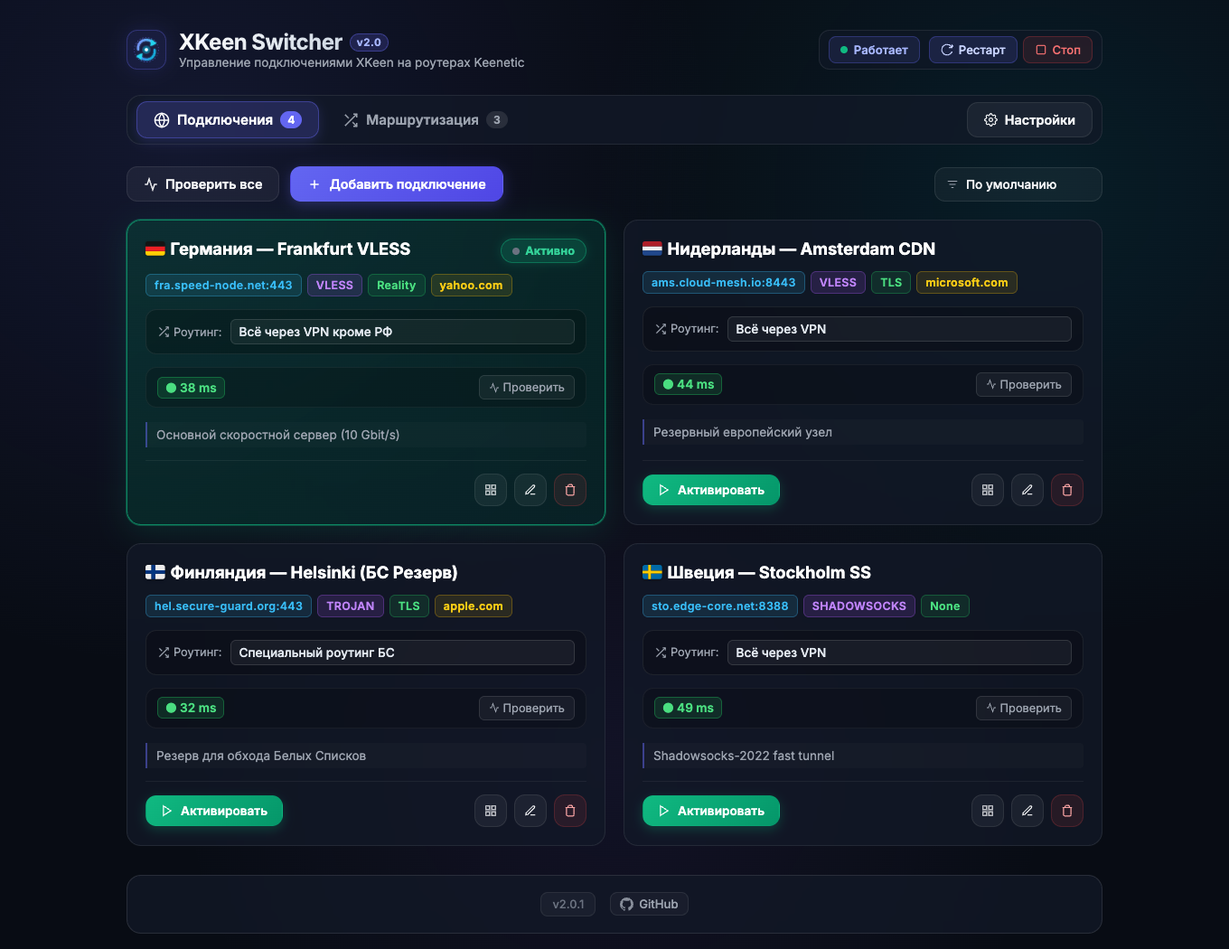
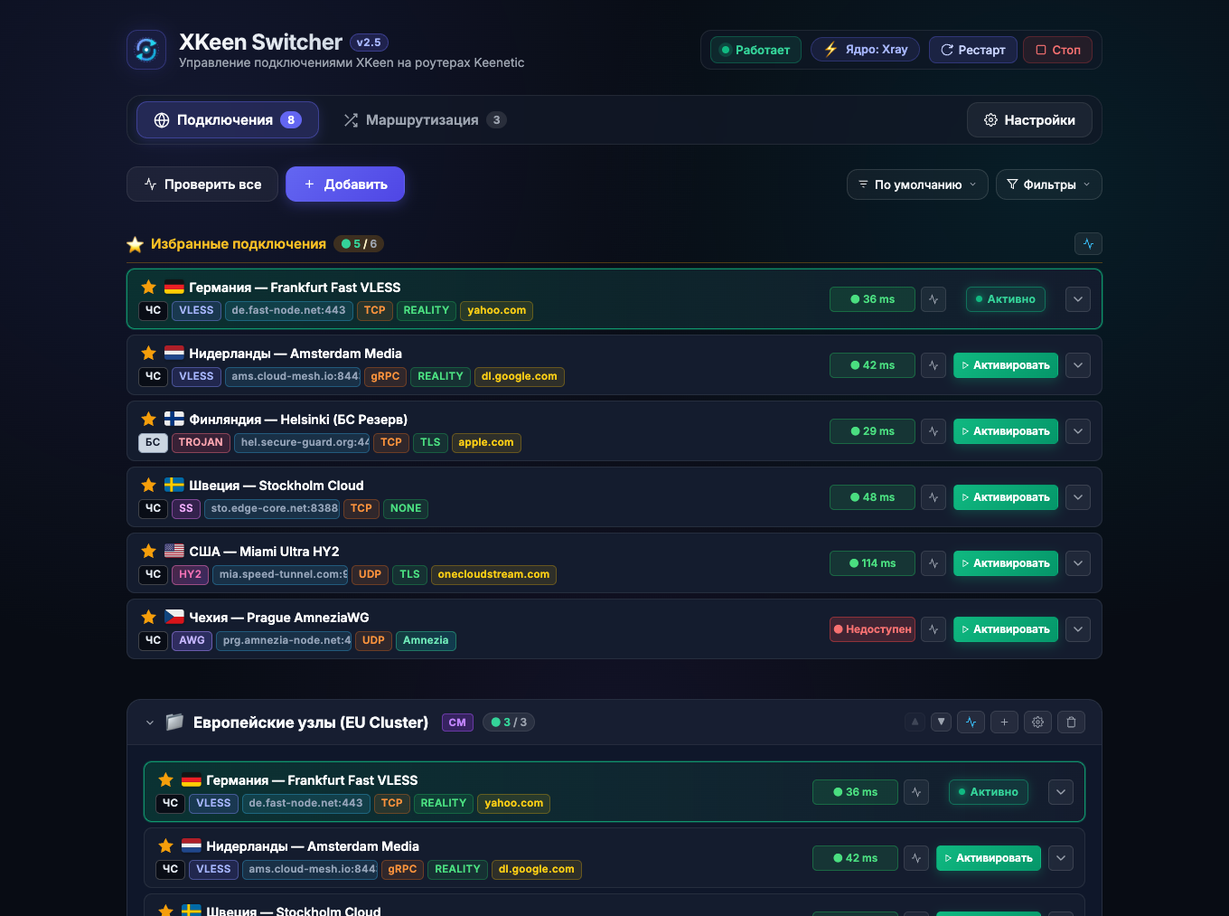
release: v2.5.0 - Multi-core (Xray & Mihomo), AWG, Hysteria 2, Subscriptions and Routing Builder

diff --git a/public/index.html b/public/index.html
@@ -3,7 +3,7 @@
 <head>
   <meta charset="UTF-8">
   <meta name="viewport" content="width=device-width, initial-scale=1.0">
-  <title>XKeen Switcher 2.0</title>
+  <title>XKeen Switcher 2.5</title>
   <link rel="icon" type="image/svg+xml" href="favicon.svg">
   <meta name="theme-color" content="#080c14">
   <link rel="preconnect" href="https://fonts.googleapis.com">
@@ -57,7 +57,7 @@
         <div>
           <div class="brand-title-row">
             <h1>XKeen Switcher</h1>
-            <span class="version-tag">v2.0</span>
+            <span class="version-tag">v2.5</span>
           </div>
           <p class="subtitle">Управление подключениями XKeen на роутерах Keenetic</p>
         </div>
@@ -235,7 +235,7 @@
     <footer class="bottom-bar glass-card footer-centered">
       <div class="footer-content">
         <div class="app-version-badge" id="app-version-badge" title="Версия приложения">
-          <span id="app-version-text">v2.0.2</span>
+          <span id="app-version-text">v2.5.0</span>
         </div>
         <div id="app-update-group" class="app-update-group hidden">
           <a id="app-update-badge" class="app-update-badge" href="https://github.com/sergey1900/XKeenSwitcher/releases" target="_blank" rel="noopener noreferrer" title="Нажмите, чтобы открыть страницу релиза на GitHub">

diff --git a/public/app.js b/public/app.js
@@ -167,6 +167,8 @@ async function loadData() {
     if (data.version) {
       const verEl = document.getElementById('app-version-text');
       if (verEl) verEl.textContent = `v${data.version}`;
+      const brandTag = document.querySelector('.brand-title-row .version-tag');
+      if (brandTag) brandTag.textContent = `v${data.version.split('.').slice(0, 2).join('.')}`;
     }
 
     // Check for updates on GitHub in the background

diff --git a/README.md b/README.md
@@ -1,29 +1,66 @@
 # 🚀 XKeenSwitcher
 
-Современная веб-панель для управления подключениями outbound и модульной маршрутизацией (routing) для **XKeen (Xray / sing-box)** на роутерах с установленной средой **Entware** (Keenetic, OpenWrt и др.).
+Современная веб-панель для управления исходящими подключениями (Outbounds) и модульной маршрутизацией (Routing) для **XKeen (Xray / Mihomo / sing-box)** на роутерах с установленной средой **Entware** (Keenetic, OpenWrt, Asuswrt-Merlin и др.).
 
 <p align="center">
-  <img src="screenshot.png" alt="Интерфейс XKeenSwitcher v2.0.1" width="100%" />
+  <img src="screenshot.png" alt="Интерфейс XKeenSwitcher v2.5.0" width="100%" />
 </p>
 
 ---
 
 ## ✨ Возможности
 
-- ⚡ **Переключение в 1 клик:** Мгновенная смена активного сервера с автоперезапуском службы XKeen и проверкой задержки (ping/RTT).
-- 🛡 **Отказоустойчивость (Failover & Auto-Failover):** 
-  - Непрерывный мониторинг доступности внешних ресурсов и белых списков РФ.
-  - Автоматическое переключение на резервный узел или пул серверов (Lowest Ping / Round-Robin).
-  - Автовозврат на основной сервер при восстановлении связи.
-- 🌐 **Модульная система роутингов:** 
-  - Системные защищённые пресеты (*«Всё через VPN»*, *«Всё через VPN кроме РФ»*).
-  - Создание и привязка персональных роутингов к подключениям.
-- 📱 **QR-коды и экспорт:** Генерация ссылок подключения (VLESS / VMess / Shadowsocks / Trojan) и QR-кодов для быстрой настройки смартфонов.
-- 📂 **Умный редактор конфигураций:** Создание, форматирование, подсветка синтаксиса и валидация `outbound.json` и `routing.json` (с поддержкой комментариев `//` и `/* */`).
-- 📦 **Резервное копирование:** Быстрый экспорт и импорт базы подключений и роутингов в архивах ZIP и файлах JSON.
-- 📊 **Мониторинг службы XKeen:** Проверка статуса, запуск, остановка, перезапуск и просмотр логов терминала прямо в веб-интерфейсе.
-- 🎨 **Современный Glassmorphism UI:** Адаптивный дизайн для мобильных устройств и десктопа с поддержкой флагов стран серверов.
-- 🔄 **Встроенное автообновление:** Проверка новых релизов на GitHub прямо в интерфейсе и обновление в 1 клик с автоматическим бэкапом конфигураций и перезапуском сервера.
+### ⚡ Мульти-ядерная архитектура (Xray & Mihomo)
+- **Переключение ядер в 1 клик:** Бесшовный переход между ядрами **Xray** и **Mihomo (Clash.Meta)** прямо из шапки интерфейса.
+- **Автоматическая адаптация конфигураций:** Панель самостоятельно генерирует синтаксически корректные конфиги для активного ядра (`05_outbounds.json` + `05_routing.json` для Xray и `config.yaml` для Mihomo).
+
+### 🛡 Поддержка современных протоколов обхода блокировок
+- **AmneziaWG (AWG 3.0 / 3.1):** Нативная поддержка параметров обфускации (`Jc`, `Jmin`, `Jmax`, `S1`, `S2`, заголовки `H1-H4`) через ядро Mihomo. Импорт ссылок `vpn://`, `awg://` и текстовых конфигураций `[Interface]`.
+- **Hysteria 2 (`hy2://`):** Скоростной протокол на базе UDP с маскировкой под HTTP/3 для обхода жесткого замедления трафика.
+- **WireGuard (`wg://`):** Поддержка классического WireGuard и файлов `[Interface]` с поддержкой IPv6.
+- **Xray расширения:** VLESS (с поддержкой Reality, Flow, gRPC, WebSocket, xhttp), VMess, Trojan и Shadowsocks.
+
+### 📦 Подписки, Группы и Пакетный импорт
+- **Импорт подписок по URL:** Поддержка провайдерских подписок, автоматическое распознавание названий (`profile-title`) и поддержка HWID.
+- **Пользовательские группы серверов:** Организация подключений по странам или категориям с возможностью сортировки, группового замера пинга, перемещения и копирования.
+- **Закреплённое Избранное (★ Favorites):** Быстрый доступ к ключевым серверам вверху списка.
+- **Пакетный импорт (Batch Import):** Добавление десятков серверов одной вставкой списка ссылок.
+
+### 🎨 Современный Compact Accordion UI
+- **Компактные карточки-аккордеоны:** Плотная и информативная вёрстка, оптимизированная для работы с сотнями серверов.
+- **Умная единая фильтрация (Unified Filters):** Быстрый поиск и фильтрация по протоколам, транспортам, странам и типам списков (ЧС / БС / СМ) с динамическим скрытием неиспользуемых опций.
+- **Цветные бейджи и индикаторы:** Наглядное отображение протоколов, сетевых транспортов и живой индикатор активного сервера.
+
+### 🌐 Универсальный визуальный конструктор маршрутизации
+- **Визуальное управление списками:** Разделение правил на **«В туннель (VPN)»**, **«Напрямую (Bypass)»** и **«Блокировать (Reject)»**.
+- **Раздельные вкладки для доменов и IP/CIDR.**
+- **Строка быстрого добавления (Quick Add):** Автоматическая очистка URL и протоколов при вставке.
+- **Инструменты в 1 клик:** Сортировка по алфавиту (А-Я), удаление дубликатов, очистка пустых строк и поддержка комментариев (`#`, `//`).
+- **Специальные сервисы:** Переключатели для BitTorrent (P2P), QUIC (HTTP/3) и звонков (VoIP/STUN).
+- **Базы GeoSite / GeoIP:** Мониторинг размера, статуса и встроенное автообновление geodata.
+
+### 🛡 Отказоустойчивость и Белые Списки (Failover & Auto-Failover)
+- **Резервные пулы подключений (Backup Pool):** Автоматическое переключение на пул резервных серверов при аварии или блокировке основного узла.
+- **Стратегии пула:** *Lowest Ping* (автовыбор самого быстрого) и *Round-Robin*.
+- **Реальное сквозное тестирование туннеля (Canary Probe):** Изолированная проверка прохождения трафика, исключающая ложные срабатывания на заблокированных серверах с открытым портом.
+- **Автоматический возврат (Failback):** Бесшовный возврат на основной сервер при восстановлении связи.
+
+### 📊 Мониторинг, Диагностика и Бэкапы
+- **Диагностические логи (`/api/diag/logs`):** Просмотр логов XKeen/Xray/Mihomo прямо в веб-интерфейсе.
+- **Резервное копирование (Backup & Restore):** Быстрый экспорт и импорт базы подключений, групп и роутингов в архив ZIP или JSON.
+- **Встроенное автообновление:** Проверка новых релизов на GitHub прямо в интерфейсе и обновление в 1 клик с автоматическим бэкапом конфигураций.
+
+---
+
+## 📸 Интерфейс
+
+| Главная панель (Компактный список) | Конструктор маршрутизации |
+| :---: | :---: |
+| <img src="screenshot.png" width="100%" alt="Главная панель XKeenSwitcher" /> | <img src="screenshot_routing.png" width="100%" alt="Конструктор маршрутизации" /> |
+
+| Добавление подключений и подписок | Настройки и Резервные пулы |
+| :---: | :---: |
+| <img src="screenshot_add.png" width="100%" alt="Добавление подключений" /> | <img src="screenshot_settings.png" width="100%" alt="Настройки панели" /> |
 
 ---
 
@@ -42,8 +79,8 @@ curl -sL https://raw.githubusercontent.com/sergey1900/XKeenSwitcher/main/install
 ### Что делает скрипт установки:
 1. Проверяет наличие среды Entware и необходимых утилит (`node`, `curl`, `tar`, `ca-certificates`). При необходимости автоматически доустанавливает их через `opkg`.
 2. Скачивает и распаковывает приложение в каталог `/opt/etc/xkeen-switcher`.
-3. Автоматически находит существующие конфиги Xray/XKeen (`05_outbounds.json`, `05_routing.json` и др.) и импортирует их.
-4. Настраивает и запускает службу автозапуска `/opt/etc/init.d/S99xkeen-switcher`.
+3. Автоматически находит существующие конфиги Xray/Mihomo/XKeen и импортирует их.
+4. Настраивает и запускает фоновую системную службу `/opt/etc/init.d/S99xkeen-switcher`.
 
 ---
 
@@ -54,7 +91,7 @@ curl -sL https://raw.githubusercontent.com/sergey1900/XKeenSwitcher/main/install
   ```bash
   curl -sL https://raw.githubusercontent.com/sergey1900/XKeenSwitcher/main/install.sh | sh
   ```
-  Ваши настройки и профили (`data/profiles.json`) сохранятся автоматически.
+  Ваши настройки, группы и профили (`data/profiles.json`) сохранятся автоматически.
 
 ---
 
@@ -68,9 +105,20 @@ curl -sL https://raw.githubusercontent.com/sergey1900/XKeenSwitcher/main/install
 
 ---
 
-## 🗑 Удаление
+## 🗑 Удаление (Деинсталляция)
 
-```bash
-curl -sL https://raw.githubusercontent.com/sergey1900/XKeenSwitcher/main/uninstall.sh | sh
-```
-Скрипт остановит службу, удалит файлы приложения и предложит опционально удалить Node.js.
+Если вам потребуется удалить панель с роутера:
+
+- **Автоматическое удаление (рекомендуется):**
+  ```bash
+  curl -sL https://raw.githubusercontent.com/sergey1900/XKeenSwitcher/main/uninstall.sh | sh
+  ```
+  Скрипт остановит службу, удалит файлы приложения `/opt/etc/xkeen-switcher`, скрипт автозапуска `/opt/etc/init.d/S99xkeen-switcher`, логи и предложит опционально удалить Node.js.
+
+- **Удаление вручную (через SSH):**
+  ```bash
+  /opt/etc/init.d/S99xkeen-switcher stop
+  rm -f /opt/etc/init.d/S99xkeen-switcher
+  rm -rf /opt/etc/xkeen-switcher
+  rm -f /opt/var/log/xkeen-switcher.log
+  ```

diff --git a/RELEASE_NOTES_v2.5.0.md b/RELEASE_NOTES_v2.5.0.md
@@ -1,0 +1,114 @@
+# 🚀 XKeenSwitcher v2.5.0
+
+Глобальное обновление веб-панели управления для **XKeen (Xray / Mihomo / sing-box)** на роутерах с **Entware** (Keenetic, OpenWrt и др.). 
+
+Версия **v2.5.0** — крупнейший релиз в истории проекта, превращающий панель из переключателя конфигураций в полноценный комбайн управления прокси-трафиком роутера: с поддержкой двух ядер (**Xray** и **Mihomo**), современных протоколов обхода блокировок (**AmneziaWG**, **Hysteria 2**, **WireGuard**, **VLESS Reality**), подписок, визуального конструктора правил и полностью переработанного компактного интерфейса.
+
+<p align="center">
+  <img src="screenshot.png" alt="Интерфейс XKeenSwitcher v2.5.0" width="100%" />
+</p>
+
+---
+
+## 🌟 Ключевые нововведения v2.5.0 (все изменения с v2.0.1):
+
+### 1. ⚡ Мульти-ядерная архитектура: Xray & Mihomo (Clash.Meta)
+- **Мгновенное переключение ядер в 1 клик:** Переключайтесь между классическим **Xray** и производительным ядром **Mihomo** прямо из шапки интерфейса без ручного редактирования файлов роутера.
+- **Автоматическая конвертация конфигураций:** Панель сама генерирует валидные конфигурации для активного ядра (`05_outbounds.json` + `05_routing.json` для Xray либо `config.yaml` для Mihomo).
+- **Прозрачное проксирование:** Корректная интеграция со стандартными портами редиректа/TProxy и встроенная защита от конфликтов с DNS-сервером роутера.
+
+### 2. 🛡 Поддержка современных протоколов: AmneziaWG, Hysteria 2 и WireGuard
+- **AmneziaWG (AWG 3.0 / 3.1):** Нативная поддержка продвинутых параметров обфускации (`Jc`, `Jmin`, `Jmax`, `S1`, `S2`, диапазоны `H1-H4`) через ядро Mihomo. Импорт по ссылкам `vpn://`, `awg://` и текстовым конфигурациям `[Interface]`.
+- **Hysteria 2 (`hy2://`):** Поддержка скоростного UDP-протокола с маскировкой под HTTP/3 для работы в условиях жесткого троттлинга трафика.
+- **WireGuard (`wg://`):** Полная поддержка стандартного WireGuard и импорта файлов `[Interface]` с поддержкой IPv6.
+- **Расширения Xray:** Поддержка транспортов `xhttp`, `gRPC`, `WebSocket`, `TCP Reality`, а также протоколов `Trojan`, `Shadowsocks`, `VMess` и `VLESS`.
+
+### 3. 📦 Подписки (Subscriptions) и Управление Группами (Groups)
+- **Импорт подписок по URL:** Быстрое добавление подписок провайдеров с поддержкой HWID-аутентификации и автосинхронизацией.
+- **Автоопределение названий:** Автоматическое извлечение названий профилей из заголовков `profile-title`, `content-disposition` и содержимого подписки.
+- **Пользовательские группы серверов:** Организация подключений по странам, тарифам или назначению. Доступно быстрое перемещение, копирование и ручная сортировка порядка групп.
+- **Пакетный импорт (Batch Import):** Массовое добавление десятков серверов одной вставкой списка ссылок с автоматической привязкой к группе и роутингу.
+- **Скрытие недоступных серверов:** Возможность скрыть узлы с тайм-аутом пинга, оставляя в списке только реально работающие серверы.
+
+### 4. 🎨 Полностью переработанный интерфейс (Compact Accordion UI)
+- **Компактный режим аккордеонов:** Новый адаптивный дизайн карточек экономит до 70% экранного пространства, позволяя комфортно работать с базами из сотен серверов.
+- **★ Избранные подключения (Favorites):** Закрепленная верхняя секция с возможностью быстрого переключения и отдельной кнопкой проверки задержки избранных узлов.
+- **Высококонтрастные и цветные бейджи:** 
+  - Протоколы: `VLESS`, `TROJAN`, `SS`, `HY2`, `AWG` (цветовая дифференциация).
+  - Транспорты: `TCP`, `UDP`, `gRPC`.
+  - Типы списков: **ЧС** (Черные списки), **БС** (Белые списки), **СМ** (Смешанный режим).
+- **Живая индикация активного сервера:** Пульсирующий индикатор и выделение активного контура.
+- **Единый умный фильтр (Unified Filters Dropdown):** Мультиселект по протоколам, транспортам, странам и типам списков. Опции, которых нет в текущей базе, динамически скрываются.
+
+### 5. 🌐 Универсальный визуальный конструктор маршрутизации (Routing Builder)
+- **Визуальное составление правил:** Полноценный конструктор списков без необходимости ручной правки сложного JSON.
+- **Разделение направлений трафика:**
+  - 🛡 **В туннель (VPN)** — обход блокировок для выбранных ресурсов.
+  - ⚡ **Напрямую (Bypass)** — прямой доступ для банков, Госуслуг и локальных сервисов.
+  - 🛑 **Блокировать (Reject)** — блокировка рекламы, телеметрии и нежелательных узлов.
+- **Раздельные вкладки:** Независимые списки для доменов и IP-адресов/подсетей (CIDR).
+- **Строка быстрого добавления (Quick Add):** Мгновенная вставка хостов с автоматической очисткой ссылок (превращает `https://instagram.com/p/123` в `instagram.com`).
+- **Поддержка комментариев:** Возможность комментировать строки (`#`, `//`, `;`) прямо в списках хостов.
+- **Инструменты оптимизации в 1 клик:** Сортировка по алфавиту (А-Я), автоматическое удаление дубликатов и очистка пустых строк.
+- **Управление сервисами:** Отдельные тумблеры для BitTorrent/P2P-трафика, QUIC (HTTP/3) и звонков (VoIP/STUN).
+- **Базы GeoSite / GeoIP:** Отображение статуса наличия, размера файлов баз и переключатель автообновления geodata.
+
+### 6. 🛡 Продвинутая отказоустойчивость: Резервные пулы и стратегии Failover
+- **Пул резервных серверов (Backup Pool):** Выбор пула серверов для автоматического переключения при падении основного узла или включении режима Белых Списков.
+- **Интеллектуальные стратегии:**
+  - *Lowest Ping:* автоматический выбор самого быстрого резервного узла с наименьшей задержкой.
+  - *Round-Robin:* циклическое переключение по списку резервных серверов.
+- **Фильтрация пула:** Возможность ограничить резерв только серверами, маркированными как «Белые списки (БС)».
+- **Реальное сквозное тестирование туннеля (Canary Probe):** Изолированный тестовый опрос контрольного ресурса через ядро, исключающий ложноположительный статус у серверов с открытым TCP-портом, но заблокированным туннелем.
+
+### 7. ⚡ Надежность, производительность и автообновление
+- **Диагностические логи (`/api/diag/logs`):** Просмотр логов XKeen, Xray и Mihomo прямо в окне браузера для быстрой диагностики.
+- **Настройка таймаута пинга:** Регулируемый таймаут замеров отклика в общих настройках панели.
+- **Оптимизация рендеринга больших списков:** Применение `content-visibility: auto` и оптимизация DOM-дерева для плавной работы на мобильных устройствах.
+- **Встроенное автообновление в 1 клик:** Интерактивный 4-этапный мастер с автоматическим созданием резервной копии пользовательских данных перед обновлением.
+
+---
+
+## 📸 Галерея интерфейса v2.5.0
+
+| Главная панель (Компактный список) | Конструктор маршрутизации |
+| :---: | :---: |
+| <img src="screenshot.png" width="100%" alt="Главная панель" /> | <img src="screenshot_routing.png" width="100%" alt="Конструктор маршрутизации" /> |
+
+| Добавление подключения (Мульти-протоколы) | Настройки и Резервные пулы |
+| :---: | :---: |
+| <img src="screenshot_add.png" width="100%" alt="Добавление подключения" /> | <img src="screenshot_settings.png" width="100%" alt="Настройки панели" /> |
+
+---
+
+## 📥 Установка и обновление
+
+- **Обновление работающей панели:**
+  В футере веб-панели нажмите кнопку **«Обновить»** (появится сразу после публикации релиза) и подтвердите обновление.
+- **Установка в Entware (Keenetic, OpenWrt):**
+  ```bash
+  curl -sL https://raw.githubusercontent.com/sergey1900/XKeenSwitcher/main/install.sh | sh
+  ```
+
+Панель доступна по адресу: **`http://192.168.1.1:3000`** *(или локальный IP вашего роутера)*.
+
+---
+
+## 🗑 Удаление (Деинсталляция)
+
+Если вам потребуется удалить панель с роутера:
+
+- **Автоматическое удаление (рекомендуется):**
+  Выполните команду в терминале роутера:
+  ```bash
+  curl -sL https://raw.githubusercontent.com/sergey1900/XKeenSwitcher/main/uninstall.sh | sh
+  ```
+  Скрипт остановит службу, удалит файлы приложения `/opt/etc/xkeen-switcher`, файл автозапуска `/opt/etc/init.d/S99xkeen-switcher`, логи и предложит опционально удалить Node.js.
+
+- **Удаление вручную:**
+  ```bash
+  /opt/etc/init.d/S99xkeen-switcher stop
+  rm -f /opt/etc/init.d/S99xkeen-switcher
+  rm -rf /opt/etc/xkeen-switcher
+  rm -f /opt/var/log/xkeen-switcher.log
+  ```
